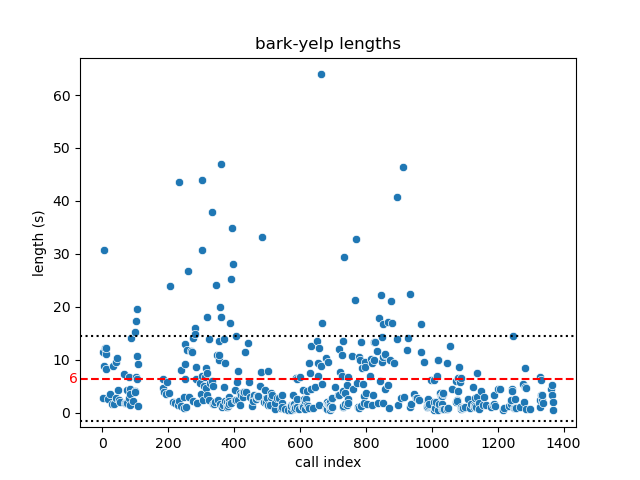
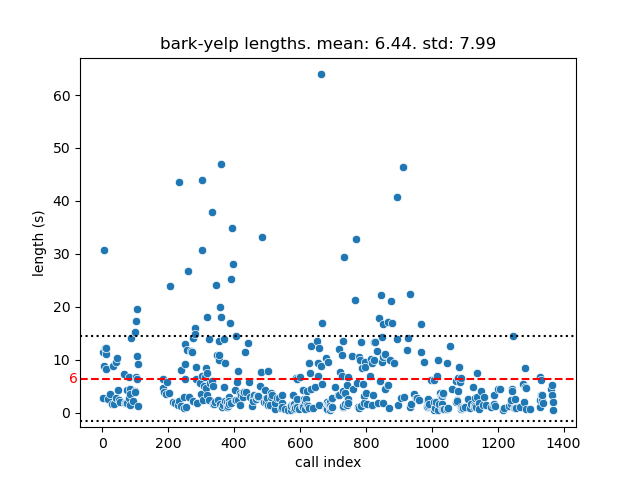
created pretrain_utils from the calc stats script and renamed the meridian ones, replotted plots.

Changed region(s): [[0.25, 0.0625, 0.7812, 0.125]]

diff --git a/call_script_meridian_utils.py b/call_script_meridian_utils.py
@@ -1,0 +1,56 @@
+from meridian_utils import create_database, train_classifier, create_detector
+
+main_folder = r'C:\Users\kzammit\Documents\Work\test'
+
+# database folders and names
+input_file_folder_db = main_folder + '\\' + 'database\input'
+output_file_folder_db = main_folder + '\\' + 'database\output'
+data_folder = main_folder + '\\' + 'database\input\data'
+annott_csv_name = "annotations_train.csv"
+annotv_csv_name = "annotations_val.csv"
+spec_name = 'spec_config.json'
+db_name = r'database_RS.h5'
+
+# classifier folders and names
+input_file_folder_c = main_folder + '\\' + 'classifier\input'
+output_file_folder_c = main_folder + '\\' + 'classifier\output'
+checkpoint_folder = main_folder + '\\' + 'classifier\output\checkpoints'
+recipe_name = 'recipe.json'
+classifier_name = 'ringed_seal_test.kt'
+
+
+# detector folders and names
+input_file_folder_d = main_folder + '\\' + 'detector\input'
+audio_folder_d = main_folder + '\\' + r'detector\audio'
+output_file_folder_d = main_folder + '\\' + 'detector\output'
+temp_folder_name = 'ringedS_tmp_folder'
+detections_csv = main_folder + '\\' + 'detector\output\detections.csv'
+
+'''
+# create database.h5 file containing the test and validation files
+create_database(train_csv=input_file_folder_db + '\\' + annott_csv_name,
+                val_csv=input_file_folder_db + '\\' + annotv_csv_name,
+                spectro_file=input_file_folder_db + '\\' + spec_name,
+                data_folder=data_folder,
+                length=3.0,
+                output_db_name=output_file_folder_db + '\\' + db_name)
+'''
+
+'''
+# create classifier .kt file containing the trained detector, with recipe and spectro files attached
+train_classifier(spectro_file=input_file_folder_db + r'\\' + spec_name,
+                 database_h5=output_file_folder_db + r'\\' + db_name,
+                 recipe=input_file_folder_c + r'\\' + recipe_name,
+                 batch_size=48, n_epochs=5,
+                 output_name=output_file_folder_c + "\\" + classifier_name,
+                 checkpoint_folder=checkpoint_folder)
+
+'''
+
+
+# use detector on audio data
+create_detector(model_file=output_file_folder_c + '\\' + classifier_name,
+                temp_model_folder=output_file_folder_d + '\\' + temp_folder_name,
+                detections_csv=detections_csv,
+                audio_folder=audio_folder_d,
+                threshold=0.70, step_size=3.0, batch_size=64, buffer=1.5)

diff --git a/pretrain_utils.py b/pretrain_utils.py
@@ -1,0 +1,41 @@
+import pandas as pd
+import matplotlib.pyplot as plt
+import seaborn as sns
+pd.options.mode.chained_assignment = None
+
+def plot_call_length_scatter(annotation_table, output_folder, all_combined):
+
+    df = pd.read_excel(annotation_table)
+    output_folder = output_folder
+
+    types = df['label'].unique()
+
+    if all_combined == 0:
+        for tdex, typee in enumerate(types):
+            df_sub = df.loc[df.label == typee]
+            call_length_scat_plot(df_sub, output_folder, typee)
+    else:
+        call_length_scat_plot(df, output_folder, 'all')
+
+
+def call_length_scat_plot(df, output_folder, call_type):
+
+    df['delta_time'] = df['end'] - df['start']
+    mean = df['delta_time'].mean()
+    std = df['delta_time'].std()
+    meanpstd = mean + std
+    meanmstd = mean - std
+
+    scat_plot = sns.scatterplot(data=df, x=df.index, y="delta_time")
+    fig = scat_plot.get_figure()
+    ax1 = fig.axes[0]
+    ax1.axhline(meanpstd, color='black', linestyle=':')
+    ax1.text(-100, mean, "{:.0f}".format(mean), color="red", ha="left", va="center")
+    ax1.axhline(meanmstd, color='black', linestyle=':')
+    ax1.axhline(mean, color='r', linestyle='dashed')
+    plt.title(str(call_type) + ' lengths. mean: ' + str("%.2f" % mean) + '. std: ' +  str("%.2f" % std))
+    plt.xlabel('call index')
+    plt.ylabel('length (s)')
+    plt.savefig(output_folder + r'\\' + 'plot-' + str(call_type) + '.png')
+    plt.close()
+

diff --git a/call_script_pretrain_utils.py b/call_script_pretrain_utils.py
@@ -1,0 +1,8 @@
+from pretrain_utils import plot_call_length_scatter
+
+
+# call scatter plot script
+annotations_table = r'C:\Users\kzammit\Repos\rs_detector\excel_outputs\formatted_annot_manual.xlsx'
+output_fig_folder = r'C:\Users\kzammit\Repos\rs_detector\figs'
+
+plot_call_length_scatter(annotations_table, output_fig_folder, all_combined=0)
